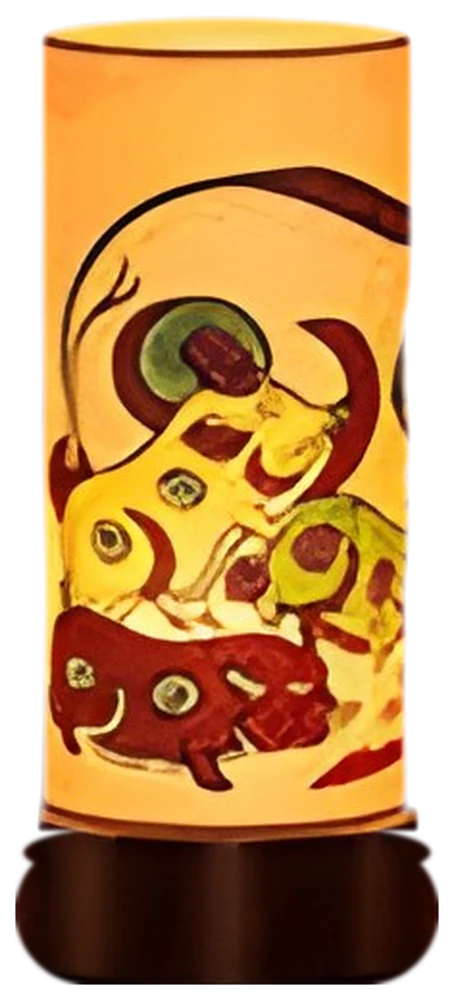
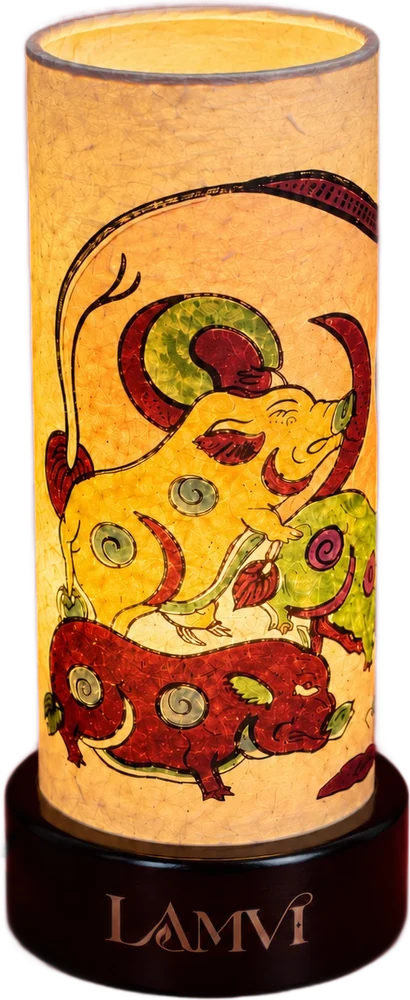
feat: ảnh chụp thật cho đèn Lợn Đàn — đủ 5/5 mẫu (G-110)

diff --git a/docs/ba-spec.md b/docs/ba-spec.md
@@ -2,10 +2,10 @@
 
 | Mục | Giá trị |
 |---|---|
-| Phiên bản | v0.64 (bản nháp) |
+| Phiên bản | v0.65 (bản nháp) |
 | Ngày | 2026-10-23 |
 | Trạng thái | PO đã duyệt toàn bộ `[PROPOSAL]`/`[ASSUMPTION]` của v0.1 (D-41) và toàn bộ P0 còn lại ở v0.19 (D-68…D-77). Còn chờ PO: P1/P2 ở §30 và `[LEGAL]` Q-36 (ảnh tư liệu), I-15 (xoá lịch sử chat); giả định phát sinh gắn `[ASSUMPTION]` |
-| Lịch sử | v0.2 (nhánh `fix/web-copy-ba-spec`): sửa câu chữ web theo §31.3, đợt 1. v0.2 (nhánh `feat/foundation-web`): D-37…D-44, nền tảng (catalog, FAQ, i18n, tài khoản, trang QR lô). v0.3: gộp hai nhánh v0.2, D-45…D-48, admin sản phẩm/FAQ/lô. v0.4: D-49, D-50, SEO (SSR, hreflang, sitemap, JSON-LD). v0.5: D-51…D-54, vai trò IT + dashboard IT (sức khoẻ, số liệu API, bảo trì). v0.6: D-55…D-58, AI Mây (chat, FAQ offline, tour, cấu hình). v0.7: D-59…D-61, giỏ hàng. v0.8: gộp nhánh `feat/folk-art-redesign` (giao diện dân gian cổ + motion, bảng màu, phòng tranh ảnh tư liệu — Q-36 `[LEGAL]`, design rules — §31.4) và `docs/branding-guideline` vào `master`. v0.9: deploy Vercel (T-33), G-35, G-36. v0.10: D-62 — tên web và thương hiệu là LAMVI (nhánh `feat/brand-lamvi`). v0.11: D-63 — bỏ xác nhận email khi đăng ký; G-37…G-39 (nhánh `feat/signup-no-confirm`). v0.12: D-64 — dashboard tài khoản khách dạng tab dọc, phong cách thanh thoát (T-34) (nhánh `feat/account-dashboard`), G-40. v0.13: dashboard bo góc + minh hoạ; tab đơn hàng minh hoạ 4 công đoạn. v0.14: D-65 — dashboard kính mờ, nền mây khói + đèn trời khi vào trang, giao diện tối (nhánh `feat/account-glass`). v0.15: nền dashboard dùng ảnh thật CC0 thay hình tự vẽ. v0.16: D-66 — ảnh nền thật cho trang chủ và các trang công khai; dashboard mobile có thanh điều hướng đáy. v0.17: D-67 — PO duyệt I-14, OpenAI của Mây mặc định bật (nhánh `feat/may-openai-default`). v0.18: câu trả lời Mây là văn bản thuần, không link/URL; G-41 (nhánh `fix/may-links`). v0.19 (nhánh `feat/production-checkout-seo-ga`): PO chốt toàn bộ P0 còn lại → D-68…D-77. Giá niêm yết đã gồm VAT (D-68, thay D-03/D-50); checkout → thanh toán payOS/COD → đơn hàng → huỷ đơn (D-69, D-70, D-73, D-74, D-76); coupon đầy đủ (D-71); Google Analytics 4 không banner cookie (D-72); ảnh sản phẩm trong admin (D-77); SEO mức production (og:image, Organization/WebSite/Breadcrumb, cache CDN); security headers (T-37), chống dò/spam (T-38, G-20), G-18, G-28; admin đơn hàng và coupon. Khoảng trống mới: G-42…G-47. v0.20 (nhánh `feat/admin-ga-realtime`): báo cáo Google Analytics realtime trong admin (`/admin/analytics`), `[ASSUMPTION]` §23.3, G-50. v0.21 (nhánh `feat/auth-redesign-google`): D-78 — thêm đăng nhập/đăng ký bằng Google (OAuth trực tiếp, không dùng provider Google của Supabase); làm lại bố cục đăng nhập/đăng ký/quên/đặt lại mật khẩu; nút đăng xuất ở thanh điều hướng; G-51. v0.22 (nhánh `feat/ui-glass-transitions`): D-79 — bo góc toàn bộ component, kính mờ (glassmorphism) cho thẻ, hiệu ứng chuyển trang (T-45). v0.23 (nhánh `feat/header-glass-backgrounds`): D-80 — header kính mờ, header/footer riêng cho trang auth, nền auth trơn có quầng màu, ảnh phong cảnh phủ mảng navy (T-46). v0.24 (nhánh `feat/auth-photo`): D-81 — ảnh riêng cho trang auth (đèn lụa phản chiếu trên sông, Hội An), không dùng ảnh của landing. v0.25 (nhánh `feat/auth-redesign-v2`): D-82 — thiết kế lại trang auth: sân khấu ảnh toàn màn hình + thẻ kính, viên thuốc chuyển đăng nhập ↔ đăng ký, nút hiện/ẩn mật khẩu. v0.26 (nhánh `feat/cart-collection-may-dashboard`): D-83, D-84 — giỏ hàng thiết kế lại, bộ sưu tập một mạch (bỏ hai tab), huy hiệu + tooltip giỏ hàng trên navbar, dashboard và khung chat Mây thiết kế lại (T-48) v0.27: auth chuẩn production không cần Supabase Pro/Twilio — thư đặt lại mật khẩu do server gửi (Resend/Brevo), refresh token ở cookie HttpOnly, chặn mật khẩu đã lộ; G-17 xử lý, G-52…G-54, Q-39 (nhánh `feat/auth-production`). v0.28: D-85 — giữ D-63, không xác minh email khi đăng ký (chốt Q-39); G-37 là rủi ro được chấp nhận (nhánh `docs/q39-keep-d63`).. v0.29 (nhánh `feat/shop-navbar`): D-86 — trang Cửa hàng `/shop` riêng, mọi nút "xem đèn" dẫn tới đó, nút "Xem thêm" ở bộ sưu tập; thanh điều hướng luôn ghim đầu trang và thu nhỏ 20% dạng viên thuốc khi cuộn (T-52). v0.30 (nhánh `feat/product-detail-v2`): D-87 — trang chi tiết sản phẩm thiết kế lại theo phong cách Cửa hàng (T-53). v0.31 (nhánh `feat/gift-message-admin-users`): D-88…D-90 — lời chúc (chữ, giọng nói, video) và trang QR lời chúc (G-42), quản lý người dùng trong admin gồm khoá/mở khoá và đổi vai trò (G-19), dashboard IT kiểm tra thật Resend (T-54); G-55…G-64. v0.32 (nhánh `docs/glass-auth-header-footer`): header/footer trang auth kính mờ phủ ảnh sân khấu (thuộc D-80, T-55); không có quyết định nghiệp vụ mới. v0.33 (nhánh `feat/order-notifications`): D-91…D-94 — thông báo đơn hàng qua email Resend kèm banner/bố cục thư (Q-24, G-45), quy tắc mật khẩu cơ bản + ô nhập lại mật khẩu mới, "quên mật khẩu" chỉ cho email đã đăng ký, admin/IT đăng nhập vào thẳng `/admin`; G-65…G-67. v0.34 (nhánh `feat/mail-business-footer`): D-95 — thư giao dịch nâng cấp bố cục và chân thư doanh nghiệp chuẩn mực (T-56); G-68 v0.35 (nhánh `feat/may-orders-policy-audit`): D-96…D-98 — bộ sưu tập đèn (đèn lẻ trong bộ mua riêng được), gallery đèn + chăn Đông Hồ có mảnh ghép và phần thưởng cốt truyện, chính sách đổi trả (7 ngày từ DELIVERED); Mây tra đơn (FR-AI-004, G-29), trang Chính sách riêng tư và đổi trả (G-10), audit log cho sản phẩm/FAQ/lô (G-21), rollback đăng ký (G-38), nhật ký bảo trì (G-27); G-69…G-76 v0.36 (nhánh `feat/address-inventory`): D-99, D-100 — địa chỉ giao hàng chọn từ danh mục hành chính 2 cấp mới (tỉnh/thành → phường/xã, G-46), tồn kho theo số lượng từng sản phẩm (chốt Q-07, G-44); G-78…G-83 v0.40 (nhánh `feat/feedback-2026-10-08`): xử lý feedback kiểm thử 08/10 — chống sập (app dự phòng, trang lỗi thương hiệu, tệp tĩnh qua CDN), menu di động, trang Liên hệ, thông tin pháp lý + trang `/terms` `/shipping` `/payment`, chú thích đăng nhập từ checkout; D-101; G-94…G-99; Q-41, Q-42 v0.41 (nhánh `fix/feedback-2026-10-08`): xử lý tiếp feedback kiểm thử 08/10 — lỗi thiếu schema trả 503 + gộp giỏ giữ giỏ local, banner đồng ý cookie + GA Consent Mode v2 (D-102, thay D-72), ẩn payOS khi chưa cấu hình + trạng thái tổng "cần xử lý", thông số sản phẩm, phí ship công khai, thanh mua/đặt hàng cố định mobile, bỏ tour tự bật + gỡ đánh giá chưa xác thực + nội dung hiển thị sẵn (D-103), cache/region/LCP/font, khoá slug + không xoá sản phẩm đã có đơn; D-102, D-103; G-100…G-107; Q-43 v0.42 (nhánh `feat/sync-real-content`): đồng bộ web với tài liệu nhóm (Content Plan, báo cáo đồ án, nội dung tranh Đông Hồ) — D-104: danh mục thật 5 đèn của bộ sưu tập đầu tiên (giá tạm 1.400.000 đ `[ASSUMPTION]`), QR chỉ ở thiệp cảm ơn không khắc trên đèn (thay D-43 một phần), nghệ nhân/quy trình/lookbook/FAQ theo tài liệu nhóm, gỡ số liệu mẫu; bỏ Q-05 (không còn bộ set); G-108…G-114 v0.43 (nhánh `feat/lamp-story-pages`): trang kể chuyện theo từng mẫu đèn (G-108, D-105) — cột `products.story`, tab "Câu chuyện", trang lời chúc hiện câu chuyện trước lời chúc; ảnh/thông tin từ fanpage chính thức (logo làm favicon thay logo Vite; G-115, G-116) v0.64 (nhánh `feat/lamp-photos-autoplay`): D-119 — video làng nghề tự phát (không tiếng) khi cuộn tới; ảnh chụp thật thay ảnh dựng bằng AI cho 4/5 mẫu đèn (G-110). v0.63 (nhánh `feat/craft-videos`): D-118 — video làng nghề tự host trên trang chủ: video tranh Đông Hồ thay chân dung minh hoạ ở khối Nghệ nhân, video làng giấy dó ở mục riêng `#films`; G-118. v0.62 (nhánh `feat/mobile-ux3`): D-117 — giao diện điện thoại đợt 3 (số liệu một hàng, quy trình/hỏi đáp gọn). v0.61 (nhánh `feat/mobile-ux2`): D-116 — giao diện điện thoại đợt 2 (trang chủ gọn hơn, thẻ sản phẩm vuốt ngang, nút mua lên trước mô tả, giỏ hàng gọn). v0.60 (nhánh `feat/mobile-ux`): D-115 — thiết kế lại giao diện điện thoại đợt 1 (thanh điều hướng đáy, vùng chạm ≥ 44 px, chân trang gọn, ẩn Mây nổi ở trang auth). v0.59 (nhánh `feat/admin-order-status`): D-114 — admin chuyển trạng thái đơn thủ công, nhảy cóc về phía trước, đơn COD giao xong tự ghi nhận đã thu tiền, nút "Đã thu tiền COD". v0.58 (nhánh `fix/hero-images`): ảnh nền banner landing có bản 2560 px, lớp khói nâng gấp đôi (G-116). v0.57 (nhánh `fix/lamp-hero-no-garbled-text`): ảnh chính 5 đèn dựng lại 1200 px, bỏ chữ poster bị méo (G-116). v0.56 (nhánh `feat/checkout-cod-only`): D-113 — tạm thời chỉ COD, không thanh toán trước; đơn tặng cũng COD; ẩn payOS khỏi checkout; migration `…0024`. v0.55 (nhánh `feat/seal-brown`): D-112 — ấn triện đổi từ đỏ son sang nâu be. v0.54 (nhánh `feat/image-enhance`): nâng chất lượng ảnh (ảnh đèn 824 px, tách nền cao 1000 px, logo 400 px, ảnh nền phong cảnh 1280/1920 px) bằng Real-ESRGAN; G-110/G-116 cập nhật. v0.53 (nhánh `feat/cover-fullhd`): ảnh bìa full HD 1672×800 thay bản 960 px (G-116). v0.52 (nhánh `docs/contact-info-d111`): D-111 — PO xác nhận thông tin liên hệ in trên banner; G-115 xử lý một phần. v0.51 (nhánh `feat/may-mascot`): mascot Mây (7 tư thế) thay hình mây SVG; G-117. v0.50 (nhánh `feat/logo-vector`): logotype vector chuẩn thay logo tròn ở thanh điều hướng (G-116); không có quyết định nghiệp vụ mới. v0.49 (nhánh `feat/price-contact-email`): D-110 — giá 1.499.000 đ, email lamvi6886@gmail.com; G-109 xong, G-115 một phần. v0.48 (nhánh `feat/returns-retention`): D-109 — chốt video đổi trả tối đa 50 MB, lưu 90 ngày sau khi xử lý xong, tự xoá bằng cron (migration `…0023`). v0.47 (nhánh `feat/returns-maintenance-authmenu`): menu di động riêng cho header đăng nhập/đăng ký, giao diện nhật ký bảo trì `/it` (G-27 xong); không có quyết định nghiệp vụ mới. v0.46 (nhánh `feat/collection-page-redesign`): D-108 — thiết kế lại trang bộ sưu tập. v0.45 (nhánh `feat/lamp-cutouts-no-captions`): D-107 — bỏ chú thích nguồn ảnh fanpage; tách nền ảnh đèn / ảnh phủ khung. v0.44 (nhánh `feat/protected-routes-fanpage-images`): D-106 — bảo vệ route phía client (`ProtectedRoute`/`GuestRoute`, §5.2b); đưa ảnh fanpage vào web — logo chính thức thay con dấu chữ, ảnh 5 đèn làm ảnh mặc định, ảnh bìa ở mục Di sản và ảnh chia sẻ (G-116) |
+| Lịch sử | v0.2 (nhánh `fix/web-copy-ba-spec`): sửa câu chữ web theo §31.3, đợt 1. v0.2 (nhánh `feat/foundation-web`): D-37…D-44, nền tảng (catalog, FAQ, i18n, tài khoản, trang QR lô). v0.3: gộp hai nhánh v0.2, D-45…D-48, admin sản phẩm/FAQ/lô. v0.4: D-49, D-50, SEO (SSR, hreflang, sitemap, JSON-LD). v0.5: D-51…D-54, vai trò IT + dashboard IT (sức khoẻ, số liệu API, bảo trì). v0.6: D-55…D-58, AI Mây (chat, FAQ offline, tour, cấu hình). v0.7: D-59…D-61, giỏ hàng. v0.8: gộp nhánh `feat/folk-art-redesign` (giao diện dân gian cổ + motion, bảng màu, phòng tranh ảnh tư liệu — Q-36 `[LEGAL]`, design rules — §31.4) và `docs/branding-guideline` vào `master`. v0.9: deploy Vercel (T-33), G-35, G-36. v0.10: D-62 — tên web và thương hiệu là LAMVI (nhánh `feat/brand-lamvi`). v0.11: D-63 — bỏ xác nhận email khi đăng ký; G-37…G-39 (nhánh `feat/signup-no-confirm`). v0.12: D-64 — dashboard tài khoản khách dạng tab dọc, phong cách thanh thoát (T-34) (nhánh `feat/account-dashboard`), G-40. v0.13: dashboard bo góc + minh hoạ; tab đơn hàng minh hoạ 4 công đoạn. v0.14: D-65 — dashboard kính mờ, nền mây khói + đèn trời khi vào trang, giao diện tối (nhánh `feat/account-glass`). v0.15: nền dashboard dùng ảnh thật CC0 thay hình tự vẽ. v0.16: D-66 — ảnh nền thật cho trang chủ và các trang công khai; dashboard mobile có thanh điều hướng đáy. v0.17: D-67 — PO duyệt I-14, OpenAI của Mây mặc định bật (nhánh `feat/may-openai-default`). v0.18: câu trả lời Mây là văn bản thuần, không link/URL; G-41 (nhánh `fix/may-links`). v0.19 (nhánh `feat/production-checkout-seo-ga`): PO chốt toàn bộ P0 còn lại → D-68…D-77. Giá niêm yết đã gồm VAT (D-68, thay D-03/D-50); checkout → thanh toán payOS/COD → đơn hàng → huỷ đơn (D-69, D-70, D-73, D-74, D-76); coupon đầy đủ (D-71); Google Analytics 4 không banner cookie (D-72); ảnh sản phẩm trong admin (D-77); SEO mức production (og:image, Organization/WebSite/Breadcrumb, cache CDN); security headers (T-37), chống dò/spam (T-38, G-20), G-18, G-28; admin đơn hàng và coupon. Khoảng trống mới: G-42…G-47. v0.20 (nhánh `feat/admin-ga-realtime`): báo cáo Google Analytics realtime trong admin (`/admin/analytics`), `[ASSUMPTION]` §23.3, G-50. v0.21 (nhánh `feat/auth-redesign-google`): D-78 — thêm đăng nhập/đăng ký bằng Google (OAuth trực tiếp, không dùng provider Google của Supabase); làm lại bố cục đăng nhập/đăng ký/quên/đặt lại mật khẩu; nút đăng xuất ở thanh điều hướng; G-51. v0.22 (nhánh `feat/ui-glass-transitions`): D-79 — bo góc toàn bộ component, kính mờ (glassmorphism) cho thẻ, hiệu ứng chuyển trang (T-45). v0.23 (nhánh `feat/header-glass-backgrounds`): D-80 — header kính mờ, header/footer riêng cho trang auth, nền auth trơn có quầng màu, ảnh phong cảnh phủ mảng navy (T-46). v0.24 (nhánh `feat/auth-photo`): D-81 — ảnh riêng cho trang auth (đèn lụa phản chiếu trên sông, Hội An), không dùng ảnh của landing. v0.25 (nhánh `feat/auth-redesign-v2`): D-82 — thiết kế lại trang auth: sân khấu ảnh toàn màn hình + thẻ kính, viên thuốc chuyển đăng nhập ↔ đăng ký, nút hiện/ẩn mật khẩu. v0.26 (nhánh `feat/cart-collection-may-dashboard`): D-83, D-84 — giỏ hàng thiết kế lại, bộ sưu tập một mạch (bỏ hai tab), huy hiệu + tooltip giỏ hàng trên navbar, dashboard và khung chat Mây thiết kế lại (T-48) v0.27: auth chuẩn production không cần Supabase Pro/Twilio — thư đặt lại mật khẩu do server gửi (Resend/Brevo), refresh token ở cookie HttpOnly, chặn mật khẩu đã lộ; G-17 xử lý, G-52…G-54, Q-39 (nhánh `feat/auth-production`). v0.28: D-85 — giữ D-63, không xác minh email khi đăng ký (chốt Q-39); G-37 là rủi ro được chấp nhận (nhánh `docs/q39-keep-d63`).. v0.29 (nhánh `feat/shop-navbar`): D-86 — trang Cửa hàng `/shop` riêng, mọi nút "xem đèn" dẫn tới đó, nút "Xem thêm" ở bộ sưu tập; thanh điều hướng luôn ghim đầu trang và thu nhỏ 20% dạng viên thuốc khi cuộn (T-52). v0.30 (nhánh `feat/product-detail-v2`): D-87 — trang chi tiết sản phẩm thiết kế lại theo phong cách Cửa hàng (T-53). v0.31 (nhánh `feat/gift-message-admin-users`): D-88…D-90 — lời chúc (chữ, giọng nói, video) và trang QR lời chúc (G-42), quản lý người dùng trong admin gồm khoá/mở khoá và đổi vai trò (G-19), dashboard IT kiểm tra thật Resend (T-54); G-55…G-64. v0.32 (nhánh `docs/glass-auth-header-footer`): header/footer trang auth kính mờ phủ ảnh sân khấu (thuộc D-80, T-55); không có quyết định nghiệp vụ mới. v0.33 (nhánh `feat/order-notifications`): D-91…D-94 — thông báo đơn hàng qua email Resend kèm banner/bố cục thư (Q-24, G-45), quy tắc mật khẩu cơ bản + ô nhập lại mật khẩu mới, "quên mật khẩu" chỉ cho email đã đăng ký, admin/IT đăng nhập vào thẳng `/admin`; G-65…G-67. v0.34 (nhánh `feat/mail-business-footer`): D-95 — thư giao dịch nâng cấp bố cục và chân thư doanh nghiệp chuẩn mực (T-56); G-68 v0.35 (nhánh `feat/may-orders-policy-audit`): D-96…D-98 — bộ sưu tập đèn (đèn lẻ trong bộ mua riêng được), gallery đèn + chăn Đông Hồ có mảnh ghép và phần thưởng cốt truyện, chính sách đổi trả (7 ngày từ DELIVERED); Mây tra đơn (FR-AI-004, G-29), trang Chính sách riêng tư và đổi trả (G-10), audit log cho sản phẩm/FAQ/lô (G-21), rollback đăng ký (G-38), nhật ký bảo trì (G-27); G-69…G-76 v0.36 (nhánh `feat/address-inventory`): D-99, D-100 — địa chỉ giao hàng chọn từ danh mục hành chính 2 cấp mới (tỉnh/thành → phường/xã, G-46), tồn kho theo số lượng từng sản phẩm (chốt Q-07, G-44); G-78…G-83 v0.40 (nhánh `feat/feedback-2026-10-08`): xử lý feedback kiểm thử 08/10 — chống sập (app dự phòng, trang lỗi thương hiệu, tệp tĩnh qua CDN), menu di động, trang Liên hệ, thông tin pháp lý + trang `/terms` `/shipping` `/payment`, chú thích đăng nhập từ checkout; D-101; G-94…G-99; Q-41, Q-42 v0.41 (nhánh `fix/feedback-2026-10-08`): xử lý tiếp feedback kiểm thử 08/10 — lỗi thiếu schema trả 503 + gộp giỏ giữ giỏ local, banner đồng ý cookie + GA Consent Mode v2 (D-102, thay D-72), ẩn payOS khi chưa cấu hình + trạng thái tổng "cần xử lý", thông số sản phẩm, phí ship công khai, thanh mua/đặt hàng cố định mobile, bỏ tour tự bật + gỡ đánh giá chưa xác thực + nội dung hiển thị sẵn (D-103), cache/region/LCP/font, khoá slug + không xoá sản phẩm đã có đơn; D-102, D-103; G-100…G-107; Q-43 v0.42 (nhánh `feat/sync-real-content`): đồng bộ web với tài liệu nhóm (Content Plan, báo cáo đồ án, nội dung tranh Đông Hồ) — D-104: danh mục thật 5 đèn của bộ sưu tập đầu tiên (giá tạm 1.400.000 đ `[ASSUMPTION]`), QR chỉ ở thiệp cảm ơn không khắc trên đèn (thay D-43 một phần), nghệ nhân/quy trình/lookbook/FAQ theo tài liệu nhóm, gỡ số liệu mẫu; bỏ Q-05 (không còn bộ set); G-108…G-114 v0.43 (nhánh `feat/lamp-story-pages`): trang kể chuyện theo từng mẫu đèn (G-108, D-105) — cột `products.story`, tab "Câu chuyện", trang lời chúc hiện câu chuyện trước lời chúc; ảnh/thông tin từ fanpage chính thức (logo làm favicon thay logo Vite; G-115, G-116) v0.65 (nhánh `feat/lamp-photo-lon-dan`): ảnh chụp thật cho Lợn Đàn — đủ 5/5 mẫu (G-110). v0.64 (nhánh `feat/lamp-photos-autoplay`): D-119 — video làng nghề tự phát (không tiếng) khi cuộn tới; ảnh chụp thật thay ảnh dựng bằng AI cho 4/5 mẫu đèn (G-110). v0.63 (nhánh `feat/craft-videos`): D-118 — video làng nghề tự host trên trang chủ: video tranh Đông Hồ thay chân dung minh hoạ ở khối Nghệ nhân, video làng giấy dó ở mục riêng `#films`; G-118. v0.62 (nhánh `feat/mobile-ux3`): D-117 — giao diện điện thoại đợt 3 (số liệu một hàng, quy trình/hỏi đáp gọn). v0.61 (nhánh `feat/mobile-ux2`): D-116 — giao diện điện thoại đợt 2 (trang chủ gọn hơn, thẻ sản phẩm vuốt ngang, nút mua lên trước mô tả, giỏ hàng gọn). v0.60 (nhánh `feat/mobile-ux`): D-115 — thiết kế lại giao diện điện thoại đợt 1 (thanh điều hướng đáy, vùng chạm ≥ 44 px, chân trang gọn, ẩn Mây nổi ở trang auth). v0.59 (nhánh `feat/admin-order-status`): D-114 — admin chuyển trạng thái đơn thủ công, nhảy cóc về phía trước, đơn COD giao xong tự ghi nhận đã thu tiền, nút "Đã thu tiền COD". v0.58 (nhánh `fix/hero-images`): ảnh nền banner landing có bản 2560 px, lớp khói nâng gấp đôi (G-116). v0.57 (nhánh `fix/lamp-hero-no-garbled-text`): ảnh chính 5 đèn dựng lại 1200 px, bỏ chữ poster bị méo (G-116). v0.56 (nhánh `feat/checkout-cod-only`): D-113 — tạm thời chỉ COD, không thanh toán trước; đơn tặng cũng COD; ẩn payOS khỏi checkout; migration `…0024`. v0.55 (nhánh `feat/seal-brown`): D-112 — ấn triện đổi từ đỏ son sang nâu be. v0.54 (nhánh `feat/image-enhance`): nâng chất lượng ảnh (ảnh đèn 824 px, tách nền cao 1000 px, logo 400 px, ảnh nền phong cảnh 1280/1920 px) bằng Real-ESRGAN; G-110/G-116 cập nhật. v0.53 (nhánh `feat/cover-fullhd`): ảnh bìa full HD 1672×800 thay bản 960 px (G-116). v0.52 (nhánh `docs/contact-info-d111`): D-111 — PO xác nhận thông tin liên hệ in trên banner; G-115 xử lý một phần. v0.51 (nhánh `feat/may-mascot`): mascot Mây (7 tư thế) thay hình mây SVG; G-117. v0.50 (nhánh `feat/logo-vector`): logotype vector chuẩn thay logo tròn ở thanh điều hướng (G-116); không có quyết định nghiệp vụ mới. v0.49 (nhánh `feat/price-contact-email`): D-110 — giá 1.499.000 đ, email lamvi6886@gmail.com; G-109 xong, G-115 một phần. v0.48 (nhánh `feat/returns-retention`): D-109 — chốt video đổi trả tối đa 50 MB, lưu 90 ngày sau khi xử lý xong, tự xoá bằng cron (migration `…0023`). v0.47 (nhánh `feat/returns-maintenance-authmenu`): menu di động riêng cho header đăng nhập/đăng ký, giao diện nhật ký bảo trì `/it` (G-27 xong); không có quyết định nghiệp vụ mới. v0.46 (nhánh `feat/collection-page-redesign`): D-108 — thiết kế lại trang bộ sưu tập. v0.45 (nhánh `feat/lamp-cutouts-no-captions`): D-107 — bỏ chú thích nguồn ảnh fanpage; tách nền ảnh đèn / ảnh phủ khung. v0.44 (nhánh `feat/protected-routes-fanpage-images`): D-106 — bảo vệ route phía client (`ProtectedRoute`/`GuestRoute`, §5.2b); đưa ảnh fanpage vào web — logo chính thức thay con dấu chữ, ảnh 5 đèn làm ảnh mặc định, ảnh bìa ở mục Di sản và ảnh chia sẻ (G-116) |
 | Phạm vi | **Chỉ hệ thống web** (storefront, tài khoản, trang QR, AI Mây, admin). Vận hành xưởng, kho, vận chuyển nằm ngoài phạm vi (D-34). |
 
 **Quy ước nhãn**
@@ -1282,7 +1282,7 @@ Cập nhật v0.2. Trạng thái: **Đã xử lý** / **Một phần** / **Còn 
 | G-107 | Mục feedback chưa làm | 3 (mua không tài khoản — Q-41), 18 (glyph "đ"), 23 (lazy/tách CSS-JS), 25 (access token ngoài `localStorage`), 26 (Turnstile; rate limit auth và Mây đã có từ T-38), 28 (gửi lại sitemap, thao tác Search Console), 1 (Sentry/uptime — cần tài khoản dịch vụ) | Gap | Chưa làm (v0.41) |
 | G-108 | QR theo từng mẫu đèn (Content Plan 30/10) | **Đã làm ở v0.43 (D-105, §21.8)**: cột `products.story`, `GET /api/qr/:token` trả `lamps[]`, trang lời chúc hiện câu chuyện trước lời chúc, tab "Câu chuyện" ở trang sản phẩm, admin nhập story, Mây dùng story. Còn lại: ảnh/video riêng từng mẫu (G-110), trang kể chuyện công khai độc lập (không làm), duyệt nội dung 5 câu chuyện | Feature | **Đã xử lý** (v0.43) |
 | G-109 | Giá bán thật | PO/client chốt **1.499.000 đ** (đã gồm VAT) cho cả 5 đèn (D-110); seed và `supabase/set-lamp-price.sql` cập nhật. Giá khác nhau theo mẫu thì đổi ở `/admin/products` | Business | **Đã xử lý** (v0.49) |
-| G-110 | Ảnh sản phẩm thật + thông số còn thiếu | **v0.64 (D-119)**: Thu Hoạch, Tứ Linh, Phúc Lộc Song Toàn, Gà Tam Dương Khai Thái đã dùng **ảnh chụp thật** (ảnh chính cắt vuông + bản tách nền, `scripts/gen_lamp_photos.py`). **Còn Lợn Đàn** vẫn là ảnh dựng từ thumbnail — PO đã gửi ảnh trong chat nhưng tệp không lưu được vào môi trường, cần gửi lại dạng tệp. Thông số còn thiếu như trước. Trước v0.64: Vẫn là hình minh hoạ **dạng lồng đèn**, trong khi sản phẩm thật (poster fanpage) là **đèn trụ** trên đế gỗ tối màu — hình minh hoạ lệch sản phẩm. Fanpage khi chưa đăng nhập chỉ cho thumbnail ≤ 206 px (không dùng được); cần ảnh gốc bật/tắt đèn, cận cảnh từ nhóm. Thông số `weight`, `care` chưa có (báo cáo ghi 12×12×20 cm là prototype tham chiếu) | Content | **Mới** (v0.42), cập nhật v0.43 |
+| G-110 | Ảnh sản phẩm thật + thông số còn thiếu | **v0.64 (D-119)**: Thu Hoạch, Tứ Linh, Phúc Lộc Song Toàn, Gà Tam Dương Khai Thái đã dùng **ảnh chụp thật** (ảnh chính cắt vuông + bản tách nền, `scripts/gen_lamp_photos.py`). **v0.65**: Lợn Đàn cũng đã dùng ảnh chụp thật → đủ 5/5 mẫu. Thông số còn thiếu như trước. Trước v0.64: Vẫn là hình minh hoạ **dạng lồng đèn**, trong khi sản phẩm thật (poster fanpage) là **đèn trụ** trên đế gỗ tối màu — hình minh hoạ lệch sản phẩm. Fanpage khi chưa đăng nhập chỉ cho thumbnail ≤ 206 px (không dùng được); cần ảnh gốc bật/tắt đèn, cận cảnh từ nhóm. Thông số `weight`, `care` chưa có (báo cáo ghi 12×12×20 cm là prototype tham chiếu) | Content | **Mới** (v0.42), cập nhật v0.43 |
 | G-111 | Khối Nghệ nhân dùng tên thật | Theo Content Plan: Nghệ nhân Ưu tú Nguyễn Hữu Quả thực hiện phủ điệp + artwork Đông Hồ. Đã bỏ câu trích bịa và số liệu mẫu (32 năm, 4.000+ đèn). Hình chân dung vẫn là minh hoạ chung — cần ảnh thật + văn bản đồng ý dùng tên/hình ảnh `[LEGAL]` | Content/Legal | **Mới** (v0.42) `[ASSUMPTION]` |
 | G-112 | Database đã seed bản demo cũ | Seed mới dùng id khác (`…0000000000a1…a5`) nên không ghi đè; sản phẩm demo cũ trên DB thật phải ẩn/xoá bằng tay ở `/admin` (đã có đơn thì chỉ ẩn) | Ops | **Mới** (v0.42) |
 | G-113 | Câu chuyện từng mẫu + tư liệu ngoài | v0.43: câu chuyện 5 đèn đã vào `products.story` (vi/en/zh, soạn lại từ Content Plan + hai bài của nhóm). Tài liệu "Nội dung tranh Đông Hồ": chỉ hai bài do nhóm viết (Lợn Âm Dương, Tam Dương Khai Thái) được dùng; phần "Tài liệu tham khảo" là trích nguồn ngoài, **không đưa lên web** khi chưa xin phép `[LEGAL]` | Content/Legal | **Một phần** (v0.43) |

diff --git a/docs/knowledge/session-log.md b/docs/knowledge/session-log.md
@@ -2,7 +2,7 @@
 
 ## 2026-10-23 (phiên 4) — Tự phát video + ảnh đèn thật (nhánh `feat/lamp-photos-autoplay`, D-119)
 
-PO: tự phát video khi cuộn tới; ảnh đèn trông giả → dùng ảnh chụp thật PO gửi. Video tự phát tắt tiếng (chính sách trình duyệt), dừng khi cuộn qua. 5 ảnh đầu lưu được thành tệp: 4 mẫu khớp catalog (ảnh lợn mẹ–lợn con không phải mẫu Lợn Đàn). 4 ảnh gửi sau (có Lợn Đàn) không có tệp trong môi trường → Lợn Đàn giữ ảnh cũ, chờ PO gửi lại tệp.
+PO: tự phát video khi cuộn tới; ảnh đèn trông giả → dùng ảnh chụp thật PO gửi. Video tự phát tắt tiếng (chính sách trình duyệt), dừng khi cuộn qua. 5 ảnh đầu lưu được thành tệp: 4 mẫu khớp catalog (ảnh lợn mẹ–lợn con không phải mẫu Lợn Đàn). 4 ảnh gửi sau (có Lợn Đàn) không có tệp trong môi trường → Lợn Đàn giữ ảnh cũ, chờ PO gửi lại tệp. PO gửi lại tệp → v0.65 (nhánh `feat/lamp-photo-lon-dan`) đủ 5/5 ảnh thật.
 
 ---
 

diff --git a/public/images/lamps/CREDITS.md b/public/images/lamps/CREDITS.md
@@ -11,9 +11,9 @@ Nhóm LAMVI gửi ảnh chụp sản phẩm thật (nền đỏ, 1086×1448). `s
 | `tu-linh` | Ảnh chụp thật (rồng/phượng) |
 | `phuc-loc-song-toan` | Ảnh chụp thật (em bé ôm cá chép) |
 | `tam-duong-khai-thai` | Ảnh chụp thật (gà trống) |
-| `lon-dan` | **Chưa thay** — vẫn là ảnh dựng từ thumbnail fanpage (mô tả bên dưới); chờ tệp ảnh chụp thật mẫu đàn lợn |
+| `lon-dan` | Ảnh chụp thật (đàn lợn vàng/xanh/đỏ) |
 
-Các mục dưới đây mô tả bộ ảnh cũ, nay chỉ còn áp dụng cho `lon-dan`.
+Các mục dưới đây mô tả bộ ảnh cũ (dựng từ thumbnail fanpage), **không còn tệp nào dùng** — giữ làm lịch sử.
 
 
 Lấy ngày 2026-10-14 từ **fanpage chính thức của LAMVI** (https://www.facebook.com/profile.php?id=61593996136514), mục Ảnh hiển thị công khai khi chưa đăng nhập. Chủ sở hữu: nhóm LAMVI.

diff --git a/docs/knowledge/progress.md b/docs/knowledge/progress.md
@@ -5,7 +5,7 @@
 | Mục | Trạng thái | Code / kiểm tra | Còn lại |
 |---|---|---|---|
 | Video tự phát (tắt tiếng) khi cuộn tới | ✅ | `src/components/CraftFilms.jsx`; `src/components/CraftFilms.test.jsx` (IO giả lập) | Thử trên trình duyệt thật (Playwright Chromium không có H.264) |
-| Ảnh chụp thật 4/5 mẫu đèn | 🟡 | `public/images/lamps/*`, `scripts/gen_lamp_photos.py` (T-90) | Lợn Đàn: cần tệp ảnh chụp thật (G-110) |
+| Ảnh chụp thật 5/5 mẫu đèn | ✅ | `public/images/lamps/*`, `scripts/gen_lamp_photos.py` (T-90); Lợn Đàn thêm ở v0.65 | — |
 
 ## 2026-10-23 — Video làng nghề trên trang chủ (feat/craft-videos, D-118)
 
